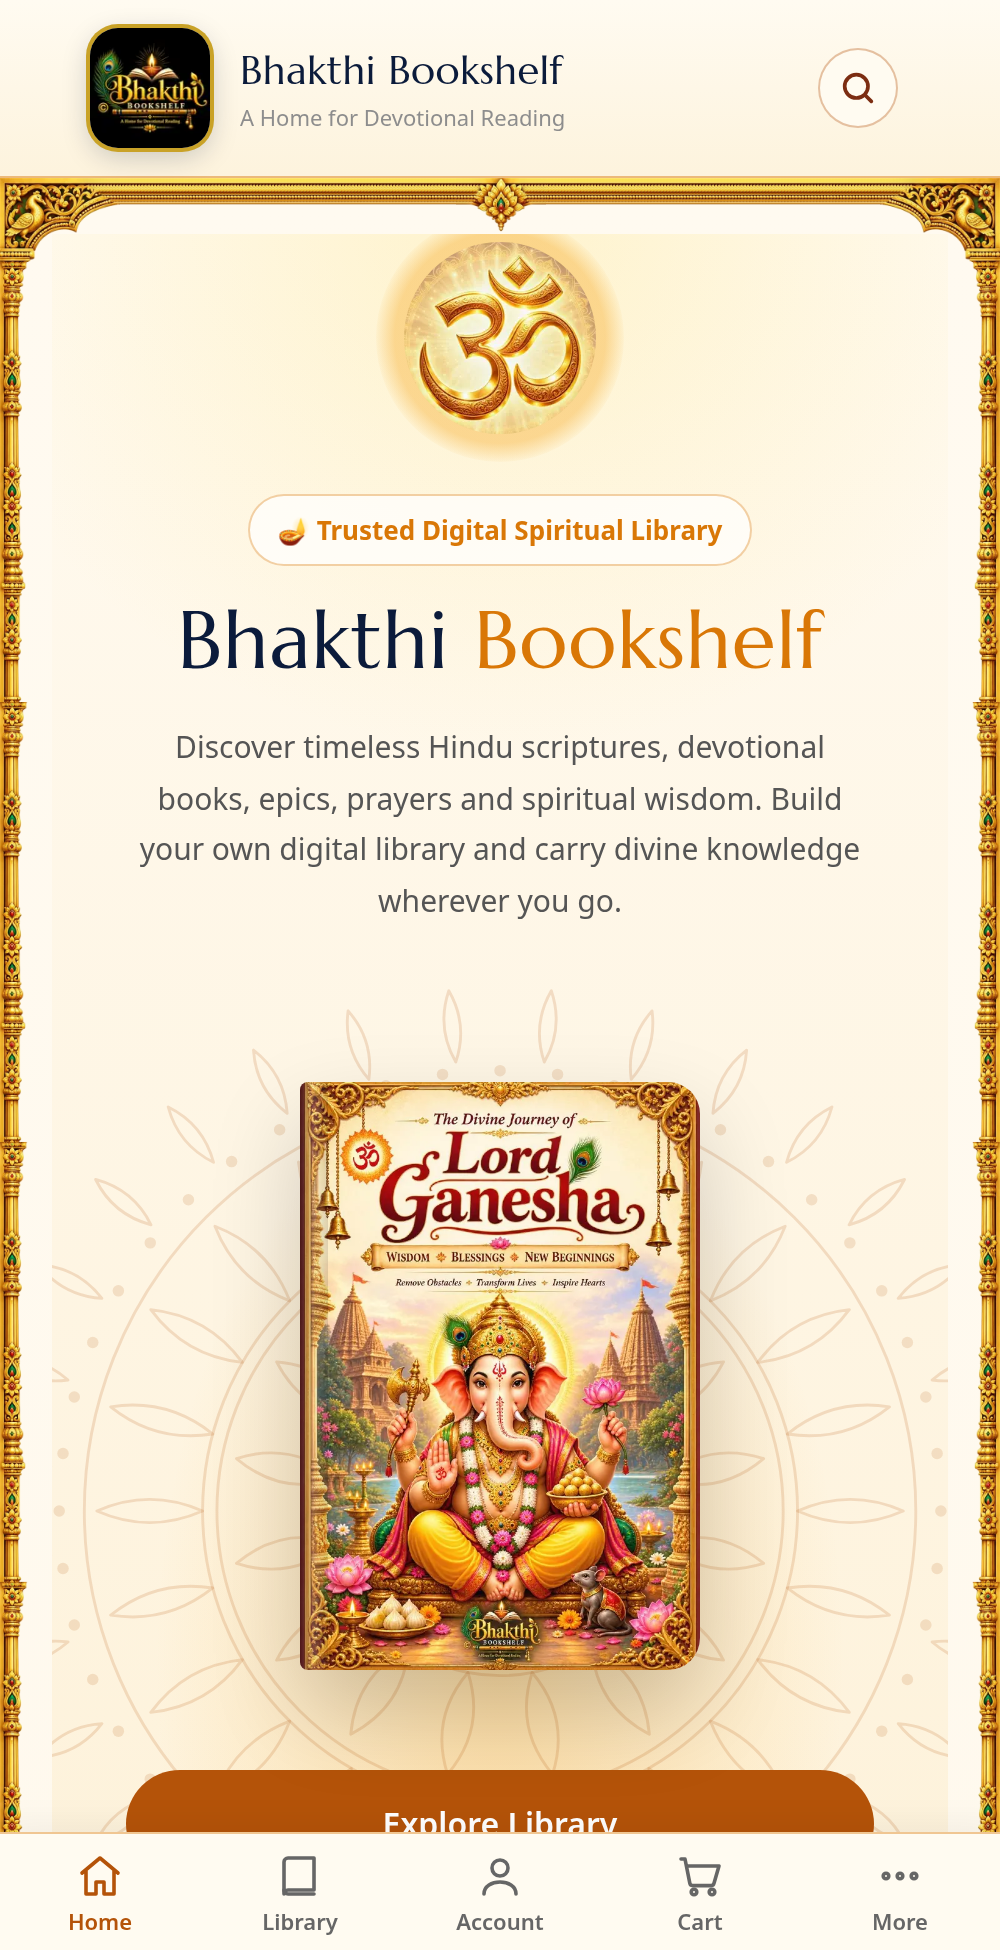
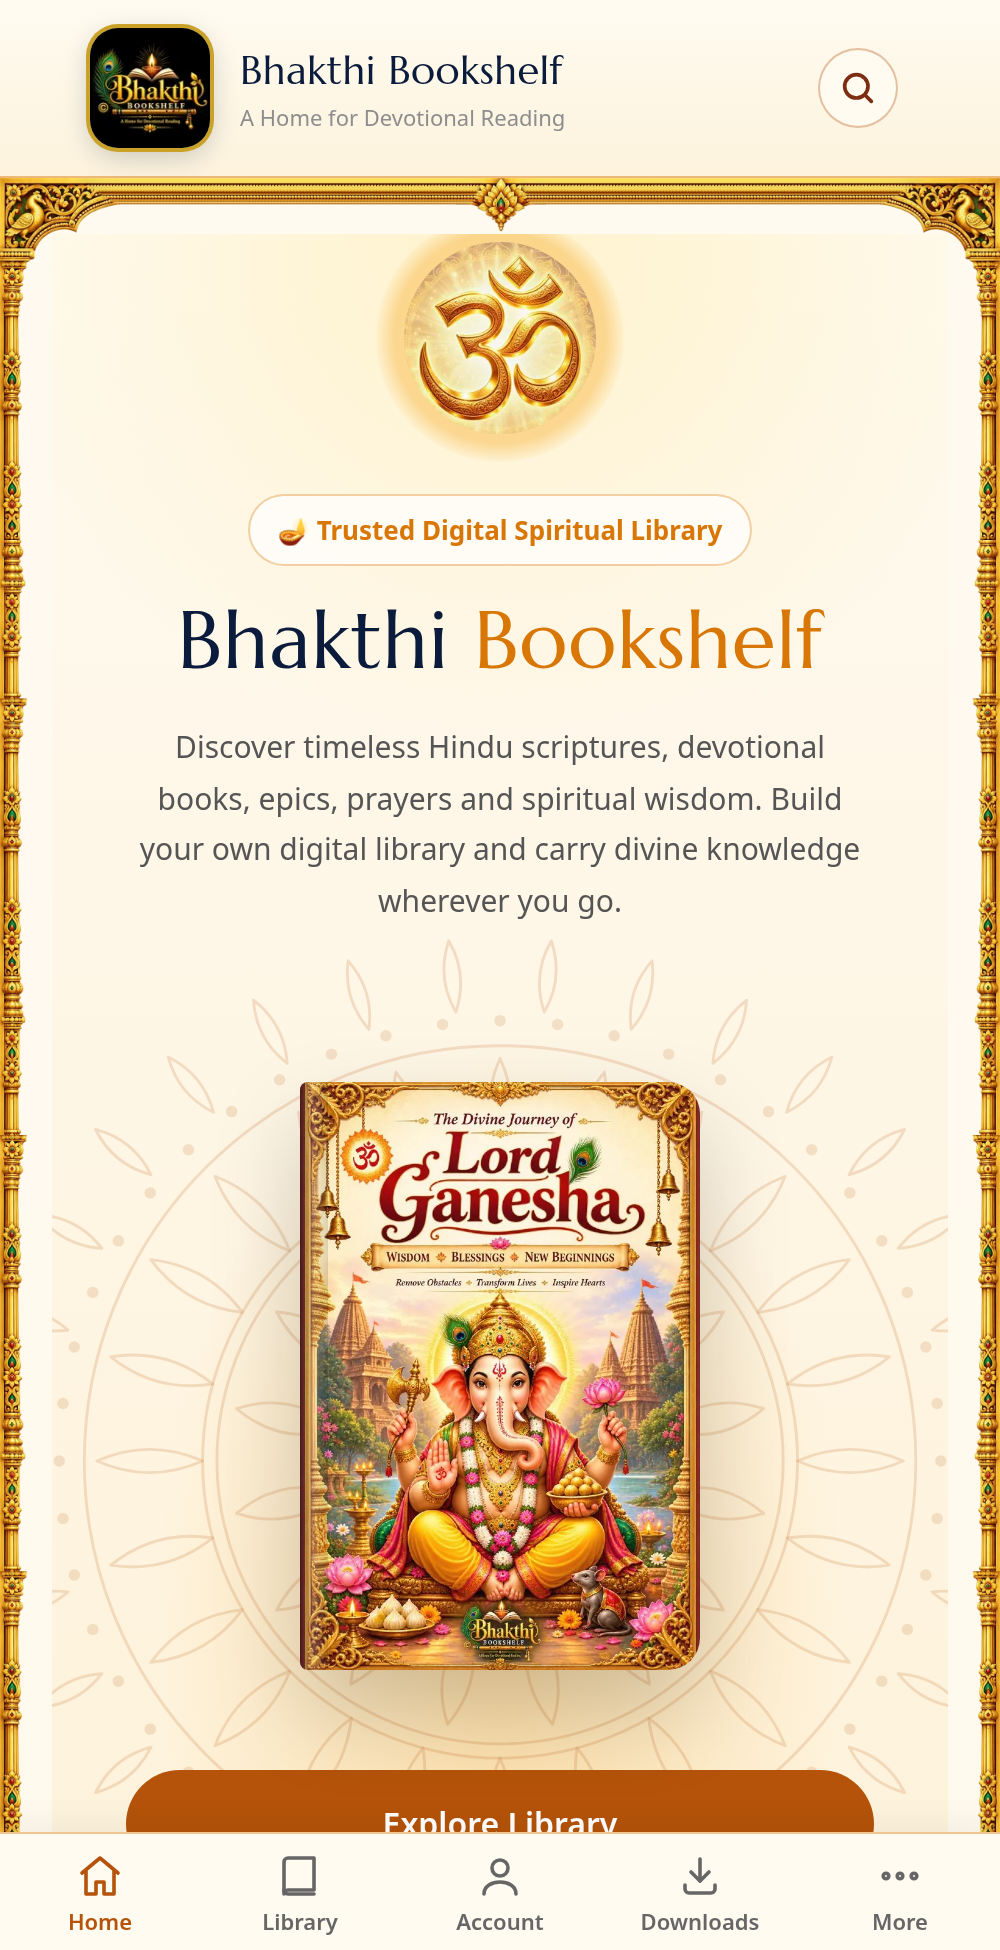
Play docs + screenshots for the read-only Android app; smoke waits for page load
- Listing, content rating, app access and Data Safety now describe option A:
  the app sells nothing and points nowhere for buying (no prices/buy copy).
- Screenshots retaken in read-only mode (Downloads tab, no buy button);
  Subscribe shot replaced by the Festival Calendar.
- smoke-test: after the fixed wait, keep waiting for readyState "complete"
  (up to 15 s) — fixes intermittent "no header" failures on slow networks.

diff --git a/docs/play-store-listing.md b/docs/play-store-listing.md
@@ -6,9 +6,13 @@ migration 034 switched it from the old Gmail address on 2026-09-29 — and
 `+91 78921 19482`). **Confirm them in `/admin/settings`** before you submit; Play
 cross-checks the listing against the app's own privacy policy page.
 
-Last reviewed **2026-09-29**: buying is ON in the Android app (client's decision), the
-subscription is a one-time lifetime plan, the reader no longer watermarks pages, and
-customers can delete their own account.
+Last reviewed **2026-09-29 (late)**: **the Android app is read-only** (owner decision,
+option A — Admin → Settings → "Android app: allow buying" is OFF; verified on prod by the
+smoke test). The app sells nothing and has **no link or text pointing to the website for
+buying** (Play/Apple anti-steering), so this listing must not either: no prices, no "buy",
+no "subscribe on our website". Customers buy on the website on their own; the app reads
+what their account already owns. The reader no longer watermarks pages, and customers can
+delete their own account.
 
 ---
 
@@ -34,8 +38,8 @@ Pick one (both fit):
 > Devotional e-books & sacred texts. Read online or download for offline.
 *(74 chars)*
 
-> Devotional books in English & Kannada — buy once, read online or offline.
-*(74 chars)*
+> Your devotional library in English & Kannada — read online or offline.
+*(71 chars)*
 
 Don't name specific titles (Bhagavad Gita, Ramayana…) until they're actually in the
 catalogue — Play treats listing content the app doesn't have as misleading.
@@ -44,22 +48,20 @@ catalogue — Play treats listing content the app doesn't have as misleading.
 
 ```
 Bhakthi Bookshelf is a home for devotional reading — sacred texts, scriptures,
-and spiritual books you can buy individually or unlock all at once with a
-one-time lifetime subscription.
+and spiritual books, with your Bhakthi Bookshelf library in your pocket.
 
 WHAT YOU CAN DO
 • Browse a growing library of devotional and religious e-books in English and
   Kannada
-• Buy a single book, or get the lifetime subscription for the full library,
-  including books added later
-• Read anywhere in the in-app reader
+• Sign in with your Bhakthi Bookshelf account and read the books in your
+  library in the in-app reader
 • Save books for offline reading — once downloaded, they stay readable even
   without an internet connection
-• Track your orders and manage your subscription from your account
+• See upcoming Hindu festivals, each with a shloka, in the Festival Calendar
 
 BUILT FOR DEVOTED READERS
 Every book download is protected: encrypted on your device and tied to your
-account and that device, so your purchase stays yours.
+account and that device, so your books stay yours.
 You can register up to 3 devices and manage them at any time from
 Account → Manage Devices.
 
@@ -73,14 +75,13 @@ My Account.
 Questions or support: support@bhakthibookshelf.in
 ```
 
-*(~950 characters — well under the 4000 limit; expand with real catalogue highlights
+*(~900 characters — well under the 4000 limit; expand with real catalogue highlights
 once you decide what to feature.)*
 
 ## What's new (release notes, this release)
 
 ```
 • New app icon.
-• Buy books and the lifetime subscription right in the app.
 • Delete your account any time from My Account.
 • Manage your devices from Account → Manage Devices; downloads restore
   automatically if you reinstall the app.
@@ -90,13 +91,14 @@ once you decide what to feature.)*
 
 ## Graphic assets — in `docs/play-store-assets/`
 
-Remade **2026-09-29** with the new logo, from the live site in Android-app mode.
+Remade **2026-09-29** with the new logo, from the live site in Android-app mode
+(screenshots retaken the same evening in read-only mode).
 
 | Asset | Spec | File | Notes |
 | --- | --- | --- | --- |
 | App icon | 512×512 PNG | `app-icon-512.png` | Copy of `public/icons/icon-512.png` — the icon in APK 1.2, so the listing matches the installed app. |
 | Feature graphic | 1024×500 PNG (no alpha) | `feature-graphic.png` | Navy/gold, the new logo in a rounded-square gold frame (a circle crops "A Home for Devotional Reading"), wordmark + tagline. HTML source was a one-off; rebuild the same way if the logo changes. |
-| Phone screenshots | 1000×1950 PNG (≤2:1) | `screenshot-1-home.png`, `screenshot-2-book-detail.png` (Lord Ganesha), `screenshot-3-subscribe.png` (₹999 lifetime), `screenshot-4-library.png` (category chips incl. Other) | Live site at 500 CSS px ×2 with `window.Capacitor` faked as Android, so they show the app's bottom tab bar. The announcement bar was hidden for the capture (announcements change). Retake when the catalogue grows so the Library shows more than one book. |
+| Phone screenshots | 1000×1950 PNG (≤2:1) | `screenshot-1-home.png`, `screenshot-2-book-detail.png` (Lord Ganesha), `screenshot-3-festivals.png` (Festival Calendar), `screenshot-4-library.png` (category chips incl. Other) | Retaken **2026-09-29 (late)** in read-only mode (buying OFF): Downloads tab instead of Cart, no prices or buy buttons — the old Subscribe shot was dropped because the app no longer has that page. Live site at 500 CSS px ×2 with `window.Capacitor` faked as Android, so they show the app's bottom tab bar. The announcement bar was hidden for the capture (announcements change). Retake when the catalogue grows so the Library shows more than one book. |
 | 7" / 10" tablet screenshots | Same rules, optional | — | Not made; only if you expect tablet installs. |
 | Promo video | Optional, YouTube URL | — | Skip for v1. |
 
@@ -110,14 +112,14 @@ cleanly and was verified against a real production build, not just dev.
 
 ## Content rating questionnaire (Play Console → App content → Content rating)
 
-Answering as a straightforward devotional reading + e-commerce app:
+Answering as a devotional reading app:
 
 - Violence, sexual content, profanity, controlled substances: **None**.
 - User-generated content / social features: **None** (no comments, chat, or public
   profiles — the contact form only reaches you, not other users).
 - Shares user location: **No**.
-- Digital purchases: **Yes** — books and the lifetime subscription, sold in the app
-  (see the Play Billing note below).
+- Digital purchases: **No** — nothing is sold in the app (read-only; see the Play
+  Billing note below).
 - Gambling / simulated gambling: **No**.
 
 This should land the app at the lowest rating tier in every region (e.g. **PEGI 3 /
@@ -126,84 +128,44 @@ nothing here should push it higher.
 
 ## App access (Play Console → App content → App access)
 
-Since most of the app requires a login to buy/read a book, provide a **test account**
-so Play's reviewers can sign in:
+Reading a book needs a login and a book the account already owns, so provide a **test
+account** so Play's reviewers can sign in:
 
-- Use a seeded, non-production customer (not a real customer's data).
+- Use a seeded, non-production customer (not a real customer's data) that **already owns
+  at least one book** (there's no admin "grant" button — do one real ₹20 test
+  purchase on the website with that account) — otherwise the reviewer only sees "This book isn't in your library yet."
 - Include phone + password, and a note that OTP-based password reset needs a real inbox
   if the reviewer might hit that flow — reviewers generally won't unless asked to.
 
 ## Target audience & content (Play Console → App content)
 
 - Target age group: **18 and over**, or **13 and over** if you don't want the stricter
-  "designed for families" requirements — this app isn't aimed at children and sells paid
-  digital content, so 18+ is the simpler, safer choice.
+  "designed for families" requirements — this app isn't aimed at children, so 18+ is
+  the simpler, safer choice.
 - Ads: **No ads** (confirm — nothing in the codebase serves ads).
 
 ---
 
 ## Before you can actually submit
 
-1. **Play Billing** — **Decision 2026-09-29: the client keeps buying ON in the app**
-   (Admin → Settings → "Android app: allow buying"), so Razorpay checkout runs inside the
-   Android app for books and the subscription. Play's payments policy generally requires
-   Google Play Billing (or enrolment in user choice billing, which still means adding
-   Play Billing alongside Razorpay) for digital goods sold in-app, so **review may reject
-   the app** — if it does, Path A below is the fix. Never switch buying OFF just for
-   review and back ON afterwards; Google treats that as evasion and can ban the
-   developer account. The read-only mode (Path B, below) was built on 2026-09-24 and is
-   still one switch away if the client changes their mind.
-
-   The paths as costed on 2026-09-16 (the ₹999 plan is now one-time/lifetime, so under
-   Path A it's a one-time managed product, not a subscription SKU):
-
-   **Path A — Migrate to Google Play Billing.** ~2–4 weeks dev + ongoing catalog
-   maintenance.
-   - Native bridge (3–5 days): no Play Billing plugin is installed today (checked
-     `package.json` / `android/app/build.gradle`). Need a Capacitor plugin (community or
-     custom) wrapping the Play Billing Library, exposed to the WebView's JS so the site
-     can trigger native purchase UI on Android only.
-   - Product catalog (1–3 days setup + **recurring**): every purchasable SKU must be
-     pre-registered in Play Console. The subscription (single ₹999/yr plan) maps to one
-     SKU — easy. Per-book purchases don't: each book needs its own managed product, so
-     every new book added to the catalogue also needs a matching Play Console SKU created
-     — an ongoing process cost, not one-time.
-   - Server verification (3–5 days): new endpoint using the Google Play Developer API to
-     verify purchase tokens server-side, mirroring `app/api/orders/verify-payment/route.ts`
-     for Razorpay, plus acknowledging purchases (Play auto-refunds if not ack'd within 3
-     days).
-   - Entitlement wiring (2–3 days): mark the existing `orders`/`subscriptions` rows PAID
-     from the Play path so `AccessService.customerHasAccessToBook()` keeps working
-     unchanged — genuinely easy given the current architecture (it's already the single
-     entitlement gate for both purchase types).
-   - Renewal/refund events (2–3 days): Real-time Developer Notifications (Pub/Sub) as the
-     webhook-equivalent backstop, same role as `app/api/webhooks/razorpay/route.ts`.
-   - Testing (3–5 days elapsed): Play Billing sandbox only works against a build uploaded
-     to at least an internal testing track — no local/sideload testing, so iteration is
-     slow (upload → Play processing → test → repeat).
-   - Business cost (ongoing): Google takes a 15–30% cut of Play-billed transactions, on
-     top of whatever Razorpay already costs — and it's Android-app-only revenue, since the
-     website keeps using Razorpay directly.
-
-   **Path B — Keep Razorpay, remove in-app purchase entirely.** ~1–3 days.
-   - Hide the Buy/Subscribe/Checkout entry points when running inside the Capacitor shell
-     (`Capacitor.isNativePlatform()` check), so the app becomes read/library-only —
-     already-owned books and active subscriptions still work via `AccessService` exactly
-     as today, but new purchases can only happen on the website (mobile browser or
-     desktop). Same pattern other read-only content apps use to legitimately sit outside
-     Play's billing-policy scope, since the app never sells digital goods itself.
-   - Work: feature-flag the checkout/subscribe UI on native, add a short "purchase on our
-     website" message, regression-test that downloads/offline-reading for existing
-     entitlements are untouched.
-   - Tradeoff: lower in-app conversion (a user has to leave the app to buy), and some risk
-     a reviewer still flags it if it looks like steering around billing rather than
-     genuinely not selling in-app — lower risk than shipping Razorpay-in-webview as-is,
-     but not zero.
-
-   Path B is the pragmatic short-term unblock (days, not weeks) at the cost of in-app
-   purchase friction. Path A is the "real" fix but is a multi-week project with a
-   recurring product-catalog maintenance tax for every new book, plus Google's revenue
-   cut. This is a business call for the owner.
+1. **Play Billing** — **Decision 2026-09-29 (late): option A, read-only app.** Admin →
+   Settings → "Android app: allow buying" is **OFF**, so the Android app hides every
+   Buy/Subscribe/Cart/Checkout entry point, redirects `/cart`, `/checkout`, `/subscribe`,
+   `/order-success` to `/downloads` (`app/components/native/AppModeGuard.tsx`), and
+   (`12e8021`) has **no link out to the website** anywhere. Owned books and the lifetime
+   subscription still work through `AccessService`. The app sells nothing, so Play Billing
+   doesn't apply. The prod smoke test checks all of this ("android app is read-only",
+   "no link out to the website").
+   - **Keep it that way:** never switch buying ON for Android while the app is in the
+     store, and never flip it OFF just for review and back ON afterwards — Google treats
+     that as evasion and can ban the developer account.
+   - Don't add "buy on our website" text or links to the app, the listing, screenshots or
+     release notes (anti-steering).
+   - Options costed if the owner wants in-app buying later: **Play Billing** (~2–4 weeks;
+     a Play product per book + one for the lifetime plan, server-side token verification,
+     Google takes 15%) or **User Choice Billing, India** (Play Billing *plus* Razorpay side
+     by side, ~11% to Google on Razorpay sales). Both need a Capacitor Play Billing plugin
+     (none installed today).
 2. **Data Safety form** — see `docs/play-store-data-safety.md`, drafted from what the
    code actually collects and sends.
 3. **Data deletion URL** — Play Console → App content → Data safety → "Delete account

diff --git a/docs/play-store-data-safety.md b/docs/play-store-data-safety.md
@@ -9,8 +9,12 @@ actually does (not a guess) — `app/lib/repositories/customerRepository.ts`,
 `app/api/client-errors/route.ts`. Re-check this if the data model changes before you
 submit — Play can suspend an app for a form that doesn't match reality.
 
-Last reviewed **2026-09-29**: buying is ON in the Android app (client's decision), and
-customers can delete their own account.
+Last reviewed **2026-09-29 (late)**: **the Android app is read-only** (option A — buying
+OFF, no checkout, no link to the website), and customers can delete their own account.
+The app itself never takes a payment, so address/GST/payment details are never entered
+in the app; they're still listed below because the same account's purchases (made on the
+website) show in the app's order history — conservative, and Play accepts over-declaring
+far more readily than under-declaring.
 
 > **The app loads the live website**, so a change on the server (for example adding the
 > GA4 or Sentry keys) changes what the app collects **without a new APK**. Update this
@@ -42,10 +46,10 @@ customers can delete their own account.
 | Personal info | Name | Yes | No | Account management, App functionality (orders/invoices) | Required to sign up |
 | Personal info | Email address | Yes | No¹ | Account management (password reset), App functionality (invoices), Developer communications (newsletter, only if the user subscribes) | Required to sign up |
 | Personal info | Phone number | Yes | No | Account management (the login identifier) | Required to sign up |
-| Personal info | Address | Yes | No | App functionality (invoicing — `orders.address/city/pincode`) | Required to check out |
+| Personal info | Address | Yes (entered at website checkout, not in the app) | No | App functionality (invoicing — `orders.address/city/pincode`) | Optional (only for buyers) |
 | Personal info | Other info (GST number) | Yes, if the buyer gives one | No | App functionality (invoicing) | Optional |
-| Financial info | Purchase history | Yes | No | App functionality (order/subscription history, access to bought books) | Required (part of buying) |
-| Financial info | Payment info (card / UPI / bank) | **No — never reaches our server** | **Yes — Razorpay** | App functionality (payment processing) | Required to pay |
+| Financial info | Purchase history | Yes | No | App functionality (order/subscription history, access to owned books) | Optional (only for buyers) |
+| Financial info | Payment info (card / UPI / bank) | **No** — the app has no checkout; on the website it goes straight to Razorpay, never our server | No (from the app) | — | — |
 | App activity | Other actions (wishlist) | Yes, when signed in | No | App functionality | Optional |
 | Device or other IDs | Device ID | Yes, app only | No | App functionality (device-bound offline downloads, `customer_devices`) | Only if the user downloads a book |
 | App activity | Search history, installed apps, other user-generated content | **No** | — | — | — |
@@ -68,8 +72,10 @@ purpose "App functionality" and name the provider.
 - **Razorpay** — card/UPI/bank details go straight from the Razorpay checkout
   (`checkout.razorpay.com/v1/checkout.js`) to Razorpay, with the order amount and
   reference; our server only sees Razorpay's payment/order/signature IDs
-  (`app/lib/razorpayClient.ts`, `app/api/orders/verify-payment`). With buying ON this
-  happens inside the Android app too. Declare it as the "Payment info" share.
+  (`app/lib/razorpayClient.ts`, `app/api/orders/verify-payment`). This happens **only on
+  the website** — the read-only app never opens Razorpay, so there's no "Payment info"
+  share to declare. If Android buying is ever switched ON, add it back (Payment info:
+  shared with Razorpay, App functionality) **before** switching.
 - **SMTP provider** — receives what's in outgoing emails. See footnote ¹.
 - **No ad networks.** Analytics and crash reporting are built in but switched off — next
   section.
